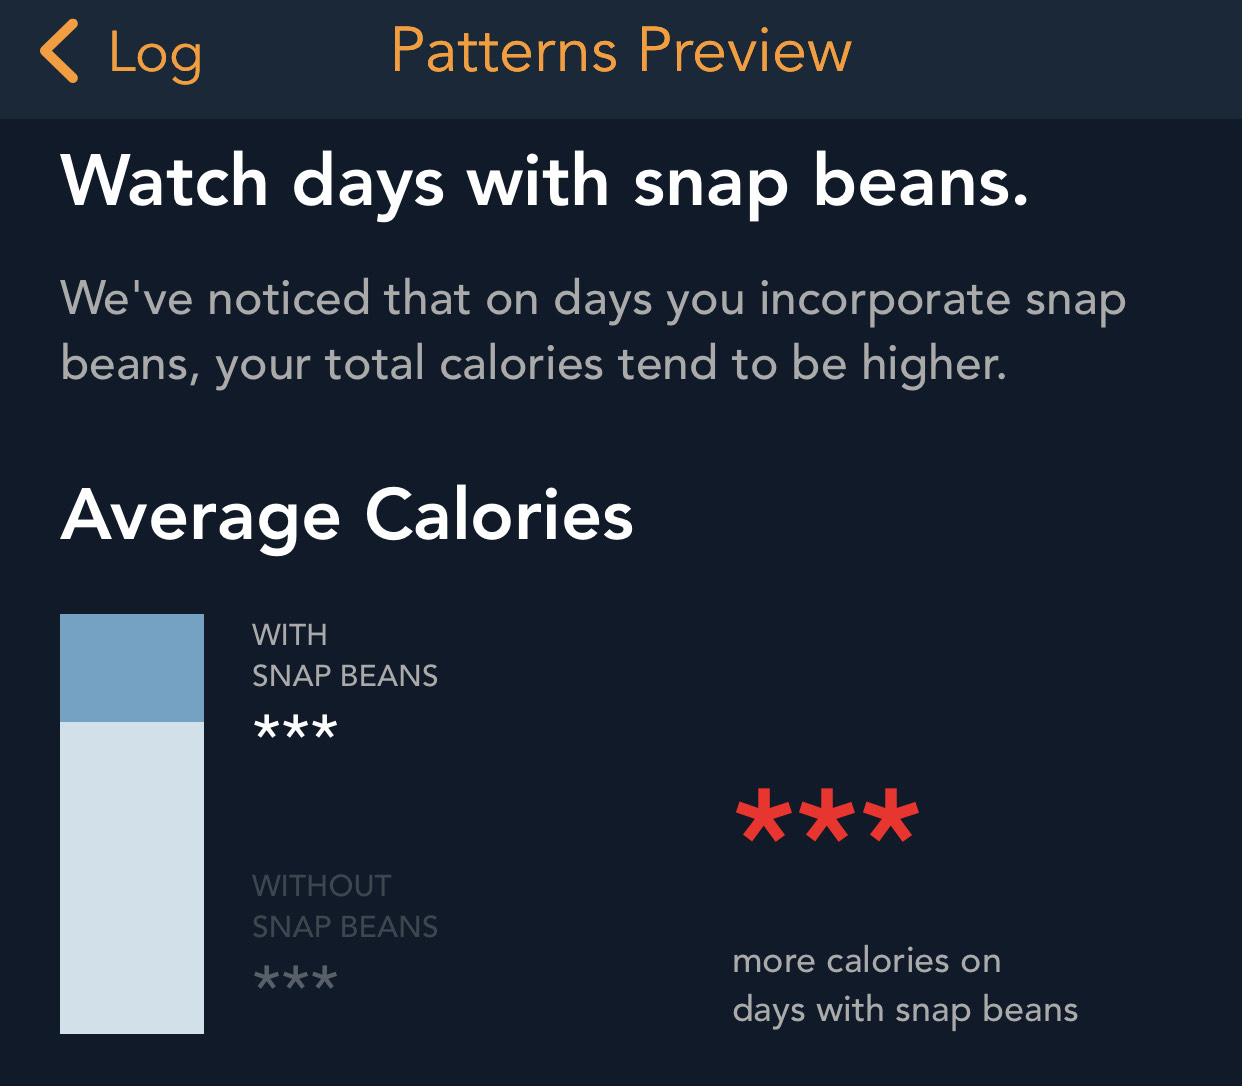
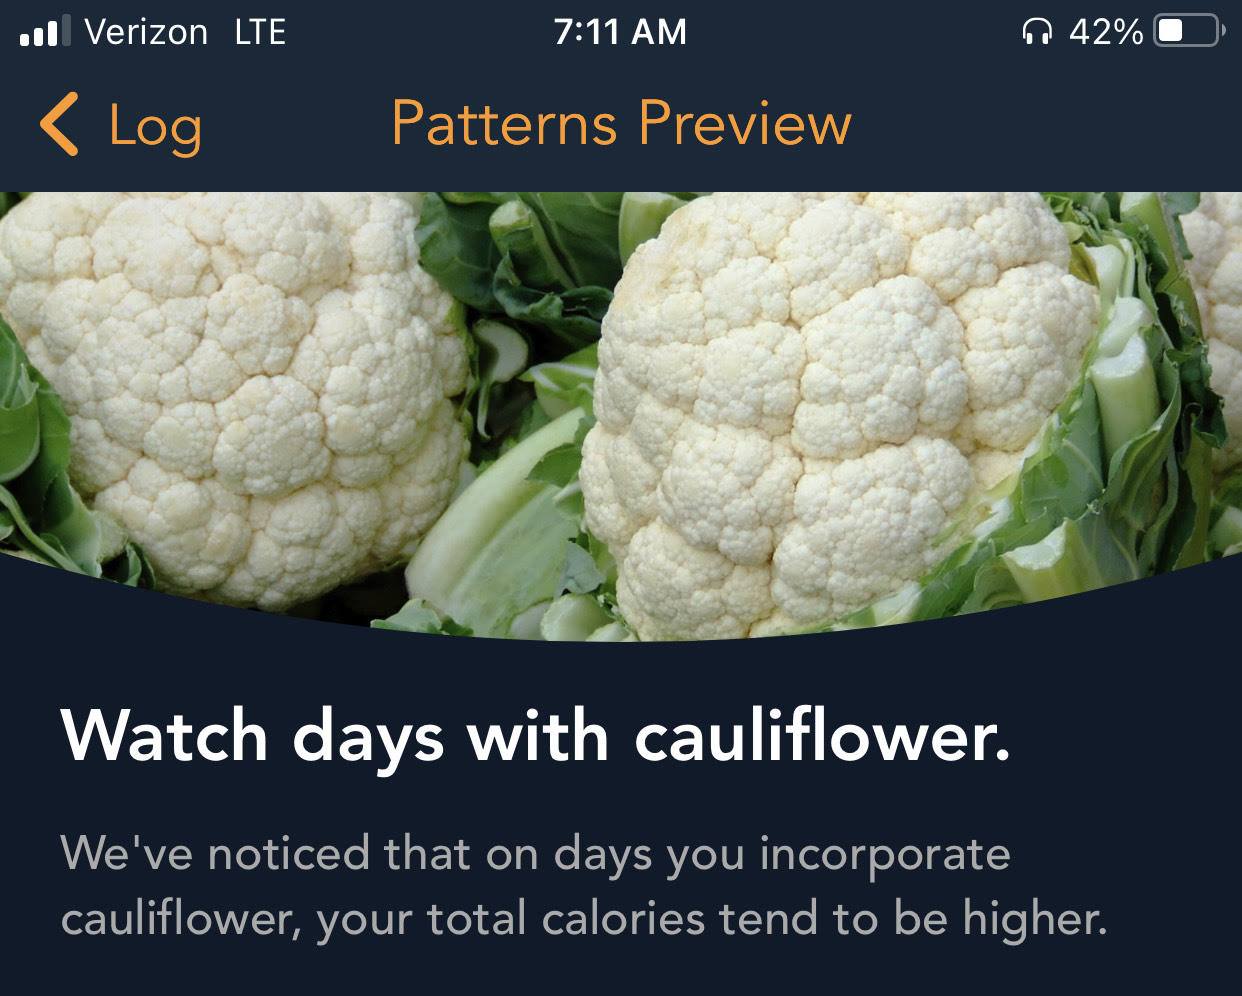
update draft

diff --git a/content/post/ml-vegetables/index.md b/content/post/ml-vegetables/index.md
@@ -2,7 +2,7 @@
 output: hugodown::md_document
 title: "Why machine learning thinks I should stop eating vegetables"
 subtitle: ""
-summary: "A personal experience with data products gone wrong"
+summary: "A personal encounter with data products gone wrong"
 authors: []
 tags: []
 categories: [data-disasters]
@@ -16,9 +16,9 @@ aliases:
 # To use, add an image named `featured.jpg/png` to your page's folder.
 # Focal points: Smart, Center, TopLeft, Top, TopRight, Left, Right, BottomLeft, Bottom, BottomRight.
 image:
-  caption: "Application screenshot"
+  caption: ""
   focal_point: ""
-  preview_only: false
+  preview_only: true
 
 # Projects (optional).
 #   Associate this post with one or more of your projects.
@@ -26,7 +26,7 @@ image:
 #   E.g. `projects = ["internal-project"]` references `content/project/deep-learning/index.md`.
 #   Otherwise, set `projects = []`.
 projects: [""]
-rmd_hash: b84e2734fb6f144c
+rmd_hash: 9ed4c2803b686382
 
 ---
 
@@ -37,31 +37,30 @@ In this post, I will briefly overview some unexpected "automated advice" that a 
 Background
 ----------
 
-personal data collection during the pandemic
+Early on in the pandemic, I started to engage in some personal data collection, including using a running app, a nutrition app, and a time-tracking app. This was motivated in equal if not greater part by giving my fingers something to do tapping away at different applications rather than envisioning any specific project or usage for said data. However, there were two unexpected benefits.
 
-did it with increasing laziness and disinterest
+First, it gave me an entirely new level of appreciation for what unreliable narrators individuals (like me!) are with self-reported data. Personal manual data entry is exceedingly uninteresting. I had zero incentive to lie -- no one would ever see this data but me! -- but nevertheless my reporting quality quickly devolved. Specifically, working with the nutrition app was incredibly boring so I started taking easy "shortcuts" which eroded any semblance of data quality. As an example that will become quite relevant shortly, it was far easier to copy the same thing from day-to-day than look up different foods. As a result, foods became metonyms for one another; any vegetable I ate was "encoded" as green beans and cauliflower because those had ended up on this list one day and I just kept copying them. Specifically, the important thing to know is that I had a few items logged *every single day in the same quantities*.
 
-two key findings: - never trust self report data
-
-What happened?
---------------
-
-I started putting some of the same stuff all the time because I'm lazy
-
-My app started telling me to not each vegetables
+Second, and related to the first, I came to learn that the app I was using was attempting to apply some sort of "intelligence" (by which, we cannot emphasize enough, means only automation) to make recommendations based on my sketchy inputs. Most curiously, on many occasions, the app seemed convinced that I should stop eating vegetables and warned of a "Negative pattern detected":
 
 ![](bean.JPG)
 
 ![](cauli.JPG)
 
+Upon tapping these curious warnings and venturing down the rabbit hole, it explained "We've noticed that on days you incorporate {food}, your total calories tend to be higher".
+
+![](featured.JPG)
+
+Uhh... okay?
+
 What caused it?
 ---------------
 
-First, I really don't know
+Naturally, I became intrigued was sort of algorithm-gone-wrong was convinced my life would be better off without vegetables. Of course, I cannot ever know the exact technology underlying this feature, but there were some intriguing clues.
 
-Couldn't be "correlation" because of ZERO VARIANCE
+I first thought about the most naive way possible that one might seek to identify such relationships. My first thought was somehow correlating the amount of different foods with total daily calories. This seemed like a reasonable culprit since correlation comes up by or before Chapter 3 in introductory statistics and is perhaps best known for masquerading as causation. However, my sloppy, lazy data collection helped rule out this quickly because I knew that there was **zero variance** in the amounts or incidences of these vegetables.
 
-Pattern mining?
+This fact of zero variance made me suspect that the actual quantities of the targetted items were not a factor in the method used. That is, it seemed likely that the approach being used was the result of some type of categorical data analysis. My next guess was that the suggestions were the result of [association rules](https://en.wikipedia.org/wiki/Association_rule_learning). ARs are notoriously sensitive to their evaluation metrics (which guides what type of patterns are considered "interesting") so this seemed like a likely culprit.
 
 ### A digression on metrics
 
@@ -90,104 +89,40 @@ lift: support(x and y) / support(x) \* support(y)
 <span class='c'>#&gt; </span>
 <span class='c'>#&gt;     abbreviate, write</span>
 
-<span class='c'># support: frequency(X) / n</span>
-<span class='c'># confidence: support(x and y) / support(x)</span>
-<span class='c'># lift: support(x and y) / (support(x) * support(y))</span>
-
-<span class='nv'>basket</span> <span class='o'>&lt;-</span>
+<span class='c'># create fake observations -----</span>
+<span class='nv'>log</span> <span class='o'>&lt;-</span>
   <span class='nf'><a href='https://rdrr.io/r/base/list.html'>list</a></span><span class='o'>(</span>
-    <span class='nf'><a href='https://rdrr.io/pkg/arules/man/combine.html'>c</a></span><span class='o'>(</span><span class='s'>"beans"</span>, <span class='s'>"hi"</span><span class='o'>)</span>,
-    <span class='nf'><a href='https://rdrr.io/pkg/arules/man/combine.html'>c</a></span><span class='o'>(</span><span class='s'>"beans"</span>, <span class='s'>"hi"</span><span class='o'>)</span>,
-    <span class='nf'><a href='https://rdrr.io/pkg/arules/man/combine.html'>c</a></span><span class='o'>(</span><span class='s'>"beans"</span>, <span class='s'>"hi"</span><span class='o'>)</span>,
-    <span class='nf'><a href='https://rdrr.io/pkg/arules/man/combine.html'>c</a></span><span class='o'>(</span><span class='s'>"beans"</span>, <span class='s'>"hi"</span><span class='o'>)</span>,
-    <span class='nf'><a href='https://rdrr.io/pkg/arules/man/combine.html'>c</a></span><span class='o'>(</span><span class='s'>"beans"</span>, <span class='s'>"hi"</span><span class='o'>)</span>,
-    <span class='nf'><a href='https://rdrr.io/pkg/arules/man/combine.html'>c</a></span><span class='o'>(</span><span class='s'>"beans"</span>, <span class='s'>"lo"</span><span class='o'>)</span>,
-    <span class='nf'><a href='https://rdrr.io/pkg/arules/man/combine.html'>c</a></span><span class='o'>(</span><span class='s'>"beans"</span>, <span class='s'>"lo"</span><span class='o'>)</span>,
-    <span class='nf'><a href='https://rdrr.io/pkg/arules/man/combine.html'>c</a></span><span class='o'>(</span><span class='s'>"beans"</span>, <span class='s'>"lo"</span><span class='o'>)</span>,
-    <span class='nf'><a href='https://rdrr.io/pkg/arules/man/combine.html'>c</a></span><span class='o'>(</span><span class='s'>"beans"</span>, <span class='s'>"lo"</span><span class='o'>)</span>,
-    <span class='nf'><a href='https://rdrr.io/pkg/arules/man/combine.html'>c</a></span><span class='o'>(</span><span class='s'>"beans"</span>, <span class='s'>"lo"</span><span class='o'>)</span>
+  <span class='nf'><a href='https://rdrr.io/pkg/arules/man/combine.html'>c</a></span><span class='o'>(</span><span class='s'>"x"</span>, <span class='s'>"a"</span>, <span class='s'>"z"</span>, <span class='s'>"hi"</span><span class='o'>)</span>,
+  <span class='nf'><a href='https://rdrr.io/pkg/arules/man/combine.html'>c</a></span><span class='o'>(</span><span class='s'>"x"</span>, <span class='s'>"b"</span>, <span class='s'>"z"</span>, <span class='s'>"hi"</span><span class='o'>)</span>,
+  <span class='nf'><a href='https://rdrr.io/pkg/arules/man/combine.html'>c</a></span><span class='o'>(</span><span class='s'>"x"</span>, <span class='s'>"c"</span>, <span class='s'>"z"</span>, <span class='s'>"hi"</span><span class='o'>)</span>,
+  <span class='nf'><a href='https://rdrr.io/pkg/arules/man/combine.html'>c</a></span><span class='o'>(</span><span class='s'>"x"</span>, <span class='s'>"d"</span>, <span class='s'>"z"</span>, <span class='s'>"hi"</span><span class='o'>)</span>,
+  <span class='nf'><a href='https://rdrr.io/pkg/arules/man/combine.html'>c</a></span><span class='o'>(</span><span class='s'>"x"</span>, <span class='s'>"e"</span>, <span class='s'>"z"</span>, <span class='s'>"hi"</span><span class='o'>)</span>,
+  <span class='nf'><a href='https://rdrr.io/pkg/arules/man/combine.html'>c</a></span><span class='o'>(</span><span class='s'>"x"</span>, <span class='s'>"f"</span>, <span class='s'>"w"</span>, <span class='s'>"lo"</span><span class='o'>)</span>,
+  <span class='nf'><a href='https://rdrr.io/pkg/arules/man/combine.html'>c</a></span><span class='o'>(</span><span class='s'>"x"</span>, <span class='s'>"g"</span>, <span class='s'>"w"</span>, <span class='s'>"lo"</span><span class='o'>)</span>,
+  <span class='nf'><a href='https://rdrr.io/pkg/arules/man/combine.html'>c</a></span><span class='o'>(</span><span class='s'>"x"</span>, <span class='s'>"h"</span>, <span class='s'>"w"</span>, <span class='s'>"lo"</span><span class='o'>)</span>,
+  <span class='nf'><a href='https://rdrr.io/pkg/arules/man/combine.html'>c</a></span><span class='o'>(</span><span class='s'>"x"</span>, <span class='s'>"i"</span>, <span class='s'>"w"</span>, <span class='s'>"lo"</span><span class='o'>)</span>,
+  <span class='nf'><a href='https://rdrr.io/pkg/arules/man/combine.html'>c</a></span><span class='o'>(</span><span class='s'>"x"</span>, <span class='s'>"j"</span>, <span class='s'>"w"</span>, <span class='s'>"lo"</span><span class='o'>)</span>
   <span class='o'>)</span>
 
-<span class='c'># correlation? ----</span>
-<span class='nv'>trans_df</span> <span class='o'>&lt;-</span> <span class='nf'><a href='https://rdrr.io/r/base/data.frame.html'>data.frame</a></span><span class='o'>(</span>
-  beans <span class='o'>=</span> <span class='nf'><a href='https://rdrr.io/r/base/rep.html'>rep</a></span><span class='o'>(</span><span class='m'>1</span>, <span class='m'>5</span><span class='o'>)</span>,
-  total <span class='o'>=</span> <span class='nf'><a href='https://rdrr.io/pkg/arules/man/combine.html'>c</a></span><span class='o'>(</span><span class='nf'><a href='https://rdrr.io/r/stats/Uniform.html'>runif</a></span><span class='o'>(</span><span class='m'>5</span>, <span class='m'>1.1</span>, <span class='m'>1.5</span><span class='o'>)</span>, <span class='nf'><a href='https://rdrr.io/r/stats/Uniform.html'>runif</a></span><span class='o'>(</span><span class='m'>5</span>, <span class='m'>0.7</span>, <span class='m'>1</span><span class='o'>)</span><span class='o'>)</span>
-<span class='o'>)</span>
-<span class='nf'><a href='https://rdrr.io/r/base/with.html'>with</a></span><span class='o'>(</span><span class='nv'>trans_df</span>, <span class='nf'><a href='https://rdrr.io/r/stats/cor.html'>cor</a></span><span class='o'>(</span><span class='nv'>beans</span>, <span class='nv'>total</span><span class='o'>)</span><span class='o'>)</span>
+<span class='c'># convert to arules-specific transaction class ----</span>
+<span class='nv'>log_trans</span> <span class='o'>&lt;-</span> <span class='nf'>as</span><span class='o'>(</span><span class='nv'>log</span>, <span class='s'>"transactions"</span><span class='o'>)</span>
+<span class='nf'><a href='https://rdrr.io/r/base/dim.html'>dim</a></span><span class='o'>(</span><span class='nv'>log_trans</span><span class='o'>)</span>
 
-<span class='c'>#&gt; Warning in cor(beans, total): the standard deviation is zero</span>
+<span class='c'>#&gt; [1] 10 15</span>
 
-<span class='c'>#&gt; [1] NA</span>
-
-<span class='c'># association rules ----</span>
-<span class='nv'>trans</span> <span class='o'>&lt;-</span> <span class='nf'>as</span><span class='o'>(</span><span class='nv'>basket</span>, <span class='s'>"transactions"</span><span class='o'>)</span>
-<span class='nf'><a href='https://rdrr.io/r/base/dim.html'>dim</a></span><span class='o'>(</span><span class='nv'>trans</span><span class='o'>)</span>
-
-<span class='c'>#&gt; [1] 10  3</span>
-
-<span class='nf'><a href='https://rdrr.io/pkg/arules/man/itemMatrix-class.html'>itemLabels</a></span><span class='o'>(</span><span class='nv'>trans</span><span class='o'>)</span>
-
-<span class='c'>#&gt; [1] "beans" "hi"    "lo"</span>
-
-<span class='nf'><a href='https://rdrr.io/r/base/summary.html'>summary</a></span><span class='o'>(</span><span class='nv'>trans</span><span class='o'>)</span>
-
-<span class='c'>#&gt; transactions as itemMatrix in sparse format with</span>
-<span class='c'>#&gt;  10 rows (elements/itemsets/transactions) and</span>
-<span class='c'>#&gt;  3 columns (items) and a density of 0.6666667 </span>
-<span class='c'>#&gt; </span>
-<span class='c'>#&gt; most frequent items:</span>
-<span class='c'>#&gt;   beans      hi      lo (Other) </span>
-<span class='c'>#&gt;      10       5       5       0 </span>
-<span class='c'>#&gt; </span>
-<span class='c'>#&gt; element (itemset/transaction) length distribution:</span>
-<span class='c'>#&gt; sizes</span>
-<span class='c'>#&gt;  2 </span>
-<span class='c'>#&gt; 10 </span>
-<span class='c'>#&gt; </span>
-<span class='c'>#&gt;    Min. 1st Qu.  Median    Mean 3rd Qu.    Max. </span>
-<span class='c'>#&gt;       2       2       2       2       2       2 </span>
-<span class='c'>#&gt; </span>
-<span class='c'>#&gt; includes extended item information - examples:</span>
-<span class='c'>#&gt;   labels</span>
-<span class='c'>#&gt; 1  beans</span>
-<span class='c'>#&gt; 2     hi</span>
-<span class='c'>#&gt; 3     lo</span>
-
-<span class='nf'><a href='https://rdrr.io/pkg/arules/man/image.html'>image</a></span><span class='o'>(</span><span class='nv'>trans</span><span class='o'>)</span>
-
-</code></pre>
-<img src="figs/unnamed-chunk-1-1.png" width="700px" style="display: block; margin: auto;" />
-<pre class='chroma'><code class='language-r' data-lang='r'><span class='nv'>rules</span> <span class='o'>&lt;-</span> <span class='nf'><a href='https://rdrr.io/pkg/arules/man/apriori.html'>apriori</a></span><span class='o'>(</span><span class='nv'>trans</span>,
-                 parameter <span class='o'>=</span> <span class='nf'><a href='https://rdrr.io/r/base/list.html'>list</a></span><span class='o'>(</span>support <span class='o'>=</span> <span class='m'>0.5</span>, confidence <span class='o'>=</span> <span class='m'>0.5</span><span class='o'>)</span>,
-                 appearance <span class='o'>=</span> <span class='nf'><a href='https://rdrr.io/r/base/list.html'>list</a></span><span class='o'>(</span>rhs <span class='o'>=</span> <span class='s'>"hi"</span><span class='o'>)</span><span class='o'>)</span>
-
-<span class='c'>#&gt; Apriori</span>
-<span class='c'>#&gt; </span>
-<span class='c'>#&gt; Parameter specification:</span>
-<span class='c'>#&gt;  confidence minval smax arem  aval originalSupport maxtime support minlen</span>
-<span class='c'>#&gt;         0.5    0.1    1 none FALSE            TRUE       5     0.5      1</span>
-<span class='c'>#&gt;  maxlen target  ext</span>
-<span class='c'>#&gt;      10  rules TRUE</span>
-<span class='c'>#&gt; </span>
-<span class='c'>#&gt; Algorithmic control:</span>
-<span class='c'>#&gt;  filter tree heap memopt load sort verbose</span>
-<span class='c'>#&gt;     0.1 TRUE TRUE  FALSE TRUE    2    TRUE</span>
-<span class='c'>#&gt; </span>
-<span class='c'>#&gt; Absolute minimum support count: 5 </span>
-<span class='c'>#&gt; </span>
-<span class='c'>#&gt; set item appearances ...[1 item(s)] done [0.00s].</span>
-<span class='c'>#&gt; set transactions ...[3 item(s), 10 transaction(s)] done [0.00s].</span>
-<span class='c'>#&gt; sorting and recoding items ... [3 item(s)] done [0.00s].</span>
-<span class='c'>#&gt; creating transaction tree ... done [0.00s].</span>
-<span class='c'>#&gt; checking subsets of size 1 2 done [0.00s].</span>
-<span class='c'>#&gt; writing ... [2 rule(s)] done [0.00s].</span>
-<span class='c'>#&gt; creating S4 object  ... done [0.00s].</span>
-
+<span class='c'># learn association rules ----</span>
+<span class='nv'>rules</span> <span class='o'>&lt;-</span> <span class='nf'><a href='https://rdrr.io/pkg/arules/man/apriori.html'>apriori</a></span><span class='o'>(</span><span class='nv'>log_trans</span>,
+                 parameter  <span class='o'>=</span> <span class='nf'><a href='https://rdrr.io/r/base/list.html'>list</a></span><span class='o'>(</span>support <span class='o'>=</span> <span class='m'>0.5</span>, confidence <span class='o'>=</span> <span class='m'>0.5</span><span class='o'>)</span>,
+                 appearance <span class='o'>=</span> <span class='nf'><a href='https://rdrr.io/r/base/list.html'>list</a></span><span class='o'>(</span>rhs <span class='o'>=</span> <span class='s'>"hi"</span><span class='o'>)</span>,
+                 control    <span class='o'>=</span> <span class='nf'><a href='https://rdrr.io/r/base/list.html'>list</a></span><span class='o'>(</span>verbose <span class='o'>=</span> <span class='kc'>FALSE</span><span class='o'>)</span>
+                 <span class='o'>)</span>
 <span class='nf'><a href='https://rdrr.io/pkg/arules/man/inspect.html'>inspect</a></span><span class='o'>(</span><span class='nv'>rules</span><span class='o'>)</span>
 
-<span class='c'>#&gt;     lhs        rhs  support confidence coverage lift count</span>
-<span class='c'>#&gt; [1] {}      =&gt; {hi} 0.5     0.5        1        1    5    </span>
-<span class='c'>#&gt; [2] {beans} =&gt; {hi} 0.5     0.5        1        1    5</span>
+<span class='c'>#&gt;     lhs      rhs  support confidence coverage lift count</span>
+<span class='c'>#&gt; [1] {}    =&gt; {hi} 0.5     0.5        1.0      1    5    </span>
+<span class='c'>#&gt; [2] {z}   =&gt; {hi} 0.5     1.0        0.5      2    5    </span>
+<span class='c'>#&gt; [3] {x}   =&gt; {hi} 0.5     0.5        1.0      1    5    </span>
+<span class='c'>#&gt; [4] {x,z} =&gt; {hi} 0.5     1.0        0.5      2    5</span>
 </code></pre>
 
 </div>
